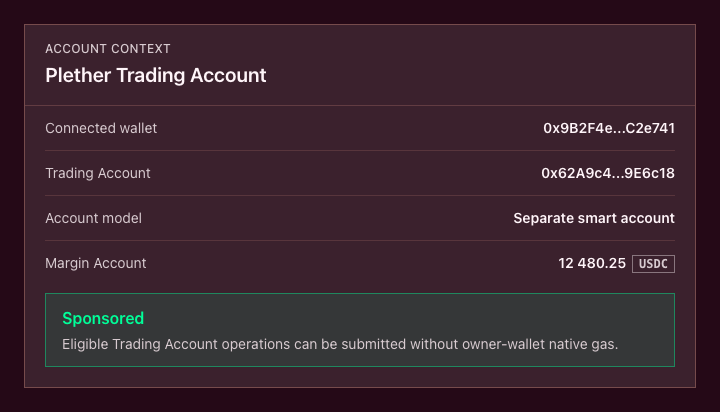
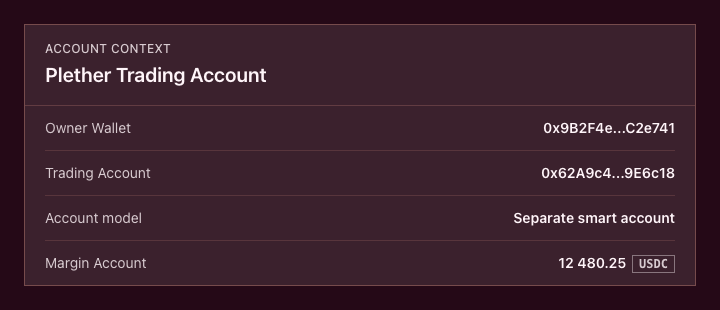
Refresh Arbitrum Sepolia perps deployment addresses and manifest

diff --git a/apps/frontend/src/components/SponsoredOperationActivity.tsx b/apps/frontend/src/components/SponsoredOperationActivity.tsx
@@ -350,7 +350,7 @@ export function SponsoredOperationHistoryButton() {
   const operations = useSponsoredOperationStore((state) => state.operations)
   const [openedActivity, setOpenedActivity] = useState<{
     identityKey: string
-    attentionCount: number
+    attentionOperationIds: string[]
   } | null>(null)
   const identityKey = identity.accountAddress && identity.chainId !== undefined
     ? `${identity.chainId.toString()}:${identity.accountAddress.toLowerCase()}`
@@ -367,18 +367,31 @@ export function SponsoredOperationHistoryButton() {
         )
         .sort((a, b) => b.updatedAt - a.updatedAt)
     : []
-  const needsAttentionOperations = accountOperations.filter(
+  const attentionOperations = accountOperations.filter(
     (operation) => isSponsoredOperationAttentionStatus(operation.status)
   )
-  const unreviewedAttentionOperations = needsAttentionOperations.filter(
+  const unreviewedAttentionOperations = attentionOperations.filter(
     isUnreviewedAttentionOperation
   )
   const inProgressOperations = accountOperations.filter(
     (operation) => isInProgressStatus(operation.status)
   )
+  const openedAttentionOperationIds = new Set(
+    openedActivity?.identityKey === identityKey
+      ? openedActivity.attentionOperationIds
+      : []
+  )
+  const needsAttentionOperations = attentionOperations.filter(
+    (operation) =>
+      openedAttentionOperationIds.has(operation.id) ||
+      isUnreviewedAttentionOperation(operation)
+  )
+  const needsAttentionOperationIds = new Set(
+    needsAttentionOperations.map((operation) => operation.id)
+  )
   const recentOperations = accountOperations.filter(
     (operation) =>
-      !isSponsoredOperationAttentionStatus(operation.status) &&
+      !needsAttentionOperationIds.has(operation.id) &&
       !isInProgressStatus(operation.status)
   )
   const [confirmationFeedback, setConfirmationFeedback] = useState<{
@@ -501,7 +514,7 @@ export function SponsoredOperationHistoryButton() {
   const unreviewedAttentionCount = unreviewedAttentionOperations.length
   const inProgressCount = inProgressOperations.length
   const attentionSummaryCount = openedActivity?.identityKey === identityKey
-    ? openedActivity.attentionCount
+    ? needsAttentionOperations.length
     : 0
   const buttonTone = isConfirmationFeedbackVisible
     ? 'border-positive text-positive hover:bg-positive/15'
@@ -575,7 +588,9 @@ export function SponsoredOperationHistoryButton() {
           )
           setOpenedActivity({
             identityKey,
-            attentionCount: unreviewedAttentionCount,
+            attentionOperationIds: unreviewedAttentionOperations.map(
+              (operation) => operation.id
+            ),
           })
         }}
       >

diff --git a/apps/frontend/src/contracts/perpsAddresses.ts b/apps/frontend/src/contracts/perpsAddresses.ts
@@ -22,20 +22,20 @@ export interface PerpsContractAddresses {
 }
 
 export const PERPS_ARBITRUM_SEPOLIA = {
-  pyth: '0x4374e5a8b9C22271E9EB878A2AA31DE97DF15DAF',
-  usdc: '0xf1e1B188b87525C51ECe4bae8627ae621D769651',
-  perpsPublicLens: '0xDdDCfb123569774427802fcA9D19CBF00c14e2Ad',
-  marginClearinghouse: '0x731bb0939CE531728459394A277B28Cbff8df049',
-  orderRouter: '0x4A0a6c028164A1254e10C3e39cc89Af45090069e',
-  orderRouterAdmin: '0xf11858573eE79EF64e38e47572785D67cE7641Ec',
-  cfdEngine: '0xA1Ebfb8aD9C90367eA30A29592419d447E3f8224',
-  cfdEnginePlanner: '0x7dDC8AdF27456A71e02e517E28a975832D49d195',
-  cfdEngineSettlementSidecar: '0x78C79E81fF5221DCdfB6B384A86990bffAFd4D6b',
-  cfdEngineAdmin: '0x03957FACB0d371f170737fa0252CDC1088bba78A',
-  housePool: '0x793dAbc20Ab0eCEb0AD8060b1fb307212C9EB6df',
-  seniorVault: '0x352F2C0Ad6e0Db6EbC3fBE7738857a804327f53b',
-  juniorVault: '0x783daF5eC664932764a59Ae387C3eAbD6cC61A74',
-  pletherOracle: '0x8c95f554D728215b9f8D15b5F3Da5F5CD7Ba08bA',
-  cfdEngineLens: '0xB7F0A32EfD67193782171Efc60D5D13A44bd5177',
-  cfdEngineAccountLens: '0xb46f7ECAE1E7D3BC8ebC7FB1cda20d2d9a83cC29',
+  pyth: '0x0B73614636C855Bf23F342F307FB981A3e47f42B',
+  usdc: '0xB15503d70B0eAa644dc6650d2A248762F7c5bCE3',
+  perpsPublicLens: '0x4E202C06e2C378d1a85577ac631e592AB66f23FB',
+  marginClearinghouse: '0x19c2f60f6312EAF9acDE4C2b04551a05cA9bE76e',
+  orderRouter: '0x04E3103752f623fBcDcD01f588590Af4c53E4c1E',
+  orderRouterAdmin: '0x3073d6D021eC20b95a8b7C780f5c30c07036ff6C',
+  cfdEngine: '0x6A25eA1015b5f032d8a2D95d57AEfcB99219bF0a',
+  cfdEnginePlanner: '0x7B4208840E0ea325dd71bDF50ffe6F8FE4018A21',
+  cfdEngineSettlementSidecar: '0x0b652c4D4610234e221403076C116292F935b424',
+  cfdEngineAdmin: '0xb256d4E88d649b2A149aA8B8caa3159260eFBc39',
+  housePool: '0xFA654f4c548130F09C3Fb962AbD4bE32c0357C18',
+  seniorVault: '0x4bAb5448C1BD9A48B978ABcb014F1a8F80F100A8',
+  juniorVault: '0x7258d6E91fbEFB8a16751575adbe9bBB3086D458',
+  pletherOracle: '0xADfEd3bf768D810309B97b4dF9F9E77Eaa3a401c',
+  cfdEngineLens: '0xa9aA4097874e9622eAABeE68f65Ff5e3757728C5',
+  cfdEngineAccountLens: '0xC4C886A6F1D7CB22C833AC1b29f29Da43AfbcCd1',
 } satisfies PerpsContractAddresses

diff --git a/apps/frontend/src/components/PerpsTradingAccountPanel.tsx b/apps/frontend/src/components/PerpsTradingAccountPanel.tsx
@@ -108,7 +108,7 @@ export function PerpsTradingAccountPanel({
 
       <dl className="px-5">
         <DetailRow
-          label="Connected wallet"
+          label="Owner Wallet"
           value={<span title={ownerWalletAddress}>{truncateAddress(ownerWalletAddress)}</span>}
         />
         <DetailRow
@@ -122,20 +122,22 @@ export function PerpsTradingAccountPanel({
         <DetailRow label="Margin Account" value={<TokenAmount amount={marginAccountUsdc} />} />
       </dl>
 
-      <div className="p-5 pt-2">
-        <div className={`border px-4 py-3 ${sponsorship.tone}`}>
-          <div className="flex items-center justify-between gap-3">
-            <span className="font-semibold">{sponsorship.label}</span>
-            {retryAt ? <span className="text-xs font-medium">Retry {retryAt}</span> : null}
+      {sponsorshipStatus !== 'available' ? (
+        <div className="p-5 pt-2">
+          <div className={`border px-4 py-3 ${sponsorship.tone}`}>
+            <div className="flex items-center justify-between gap-3">
+              <span className="font-semibold">{sponsorship.label}</span>
+              {retryAt ? <span className="text-xs font-medium">Retry {retryAt}</span> : null}
+            </div>
+            <p className="mt-1 text-sm leading-5 text-content-secondary">{sponsorship.message}</p>
+            {supportedAlternative ? (
+              <p className="mt-2 border-t border-current/20 pt-2 text-xs leading-5 text-content-primary">
+                Supported alternative: {supportedAlternative}
+              </p>
+            ) : null}
           </div>
-          <p className="mt-1 text-sm leading-5 text-content-secondary">{sponsorship.message}</p>
-          {supportedAlternative ? (
-            <p className="mt-2 border-t border-current/20 pt-2 text-xs leading-5 text-content-primary">
-              Supported alternative: {supportedAlternative}
-            </p>
-          ) : null}
         </div>
-      </div>
+      ) : null}
     </section>
   )
 }

diff --git a/apps/frontend/src/hooks/__tests__/usePerpsTrading.sponsorship.test.tsx b/apps/frontend/src/hooks/__tests__/usePerpsTrading.sponsorship.test.tsx
@@ -39,13 +39,13 @@ vi.mock('../../perps-aa', async (importOriginal) => {
     smartAccountVersion: 'permissionless-simple-v0.8' as const,
     smartAccountIndex: '0',
     smartAccountFactory: '0x4444444444444444444444444444444444444444',
-    usdc: '0xf1e1B188b87525C51ECe4bae8627ae621D769651',
+    usdc: '0xB15503d70B0eAa644dc6650d2A248762F7c5bCE3',
     usdcSupportsEip3009: false,
     usdcEip712Name: null,
     usdcEip712Version: null,
-    marginClearinghouse: '0x731bb0939CE531728459394A277B28Cbff8df049',
-    cfdEngine: '0xA1Ebfb8aD9C90367eA30A29592419d447E3f8224',
-    orderRouter: '0x4A0a6c028164A1254e10C3e39cc89Af45090069e',
+    marginClearinghouse: '0x19c2f60f6312EAF9acDE4C2b04551a05cA9bE76e',
+    cfdEngine: '0x6A25eA1015b5f032d8a2D95d57AEfcB99219bF0a',
+    orderRouter: '0x04E3103752f623fBcDcD01f588590Af4c53E4c1E',
     userOperationExplorerUrlTemplate:
       'https://example.com/user-operation/{userOperationHash}',
     transactionExplorerUrlTemplate:

diff --git a/apps/frontend/src/hooks/__tests__/usePerpsTrading.test.tsx b/apps/frontend/src/hooks/__tests__/usePerpsTrading.test.tsx
@@ -56,13 +56,13 @@ vi.mock('../../perps-aa', async (importOriginal) => {
     smartAccountVersion: 'permissionless-simple-v0.8' as const,
     smartAccountIndex: '0',
     smartAccountFactory: '0x4444444444444444444444444444444444444444',
-    usdc: '0xf1e1B188b87525C51ECe4bae8627ae621D769651',
+    usdc: '0xB15503d70B0eAa644dc6650d2A248762F7c5bCE3',
     usdcSupportsEip3009: false,
     usdcEip712Name: null,
     usdcEip712Version: null,
-    marginClearinghouse: '0x731bb0939CE531728459394A277B28Cbff8df049',
-    cfdEngine: '0xA1Ebfb8aD9C90367eA30A29592419d447E3f8224',
-    orderRouter: '0x4A0a6c028164A1254e10C3e39cc89Af45090069e',
+    marginClearinghouse: '0x19c2f60f6312EAF9acDE4C2b04551a05cA9bE76e',
+    cfdEngine: '0x6A25eA1015b5f032d8a2D95d57AEfcB99219bF0a',
+    orderRouter: '0x04E3103752f623fBcDcD01f588590Af4c53E4c1E',
     userOperationExplorerUrlTemplate:
       'https://example.com/user-operation/{userOperationHash}',
     transactionExplorerUrlTemplate:

diff --git a/apps/frontend/src/stories/PerpsTradingAccountPanel.stories.tsx b/apps/frontend/src/stories/PerpsTradingAccountPanel.stories.tsx
@@ -135,7 +135,7 @@ export const FirstDepositAuthorization: Story = {
           <OperationStateCard
             title="USDC transfer authorization"
             stage="Wallet authorization"
-            message="Authorize exactly 10 000 MockUSDC for transfer from the owner wallet to the Trading Account."
+            message="Authorize exactly 10 000 USDC for transfer from the Owner Wallet to the Trading Account."
             tone="success"
             identifierLabel="Destination"
             identifier={ACCOUNT}
@@ -146,7 +146,7 @@ export const FirstDepositAuthorization: Story = {
             message="Receive the authorized USDC, approve the clearinghouse and deposit the complete amount into the Margin Account as one atomic batch."
             tone="pending"
             identifierLabel="Amount"
-            identifier="10 000 MockUSDC"
+            identifier="10 000 USDC"
           />
         </div>
       </div>

diff --git a/apps/frontend/src/perps-aa/__tests__/managedPimlicoRuntime.test.ts b/apps/frontend/src/perps-aa/__tests__/managedPimlicoRuntime.test.ts
@@ -48,16 +48,16 @@ const manifest = {
   smartAccountVersion: 'permissionless-simple-v0.8' as const,
   smartAccountIndex: '0',
   smartAccountFactory: FACTORY,
-  usdc: '0xf1e1B188b87525C51ECe4bae8627ae621D769651' as Address,
+  usdc: '0xB15503d70B0eAa644dc6650d2A248762F7c5bCE3' as Address,
   usdcSupportsEip3009: false,
   usdcEip712Name: null,
   usdcEip712Version: null,
   marginClearinghouse:
-    '0x731bb0939CE531728459394A277B28Cbff8df049' as Address,
+    '0x19c2f60f6312EAF9acDE4C2b04551a05cA9bE76e' as Address,
   cfdEngine:
-    '0xA1Ebfb8aD9C90367eA30A29592419d447E3f8224' as Address,
+    '0x6A25eA1015b5f032d8a2D95d57AEfcB99219bF0a' as Address,
   orderRouter:
-    '0x4A0a6c028164A1254e10C3e39cc89Af45090069e' as Address,
+    '0x04E3103752f623fBcDcD01f588590Af4c53E4c1E' as Address,
   userOperationExplorerUrlTemplate:
     'https://example.com/user-operation/{userOperationHash}',
   transactionExplorerUrlTemplate:

diff --git a/apps/frontend/src/stories/SponsoredOperationHistoryButton.stories.tsx b/apps/frontend/src/stories/SponsoredOperationHistoryButton.stories.tsx
@@ -28,13 +28,13 @@ const MANIFEST: PerpsAaDeploymentManifest = {
   smartAccountVersion: 'permissionless-simple-v0.8',
   smartAccountIndex: '0',
   smartAccountFactory: '0x13E9ed32155810FDbd067D4522C492D6f68E5944',
-  usdc: '0xf1e1B188b87525C51ECe4bae8627ae621D769651',
+  usdc: '0xB15503d70B0eAa644dc6650d2A248762F7c5bCE3',
   usdcSupportsEip3009: false,
   usdcEip712Name: null,
   usdcEip712Version: null,
-  marginClearinghouse: '0x731bb0939CE531728459394A277B28Cbff8df049',
-  cfdEngine: '0xA1Ebfb8aD9C90367eA30A29592419d447E3f8224',
-  orderRouter: '0x4A0a6c028164A1254e10C3e39cc89Af45090069e',
+  marginClearinghouse: '0x19c2f60f6312EAF9acDE4C2b04551a05cA9bE76e',
+  cfdEngine: '0x6A25eA1015b5f032d8a2D95d57AEfcB99219bF0a',
+  orderRouter: '0x04E3103752f623fBcDcD01f588590Af4c53E4c1E',
   userOperationExplorerUrlTemplate:
     'https://arbitrum-sepolia.blockscout.com/op/{userOperationHash}',
   transactionExplorerUrlTemplate:

diff --git a/apps/frontend/src/components/__tests__/SponsoredOperationHistoryButton.test.tsx b/apps/frontend/src/components/__tests__/SponsoredOperationHistoryButton.test.tsx
@@ -329,7 +329,9 @@ describe('SponsoredOperationHistoryButton', () => {
     }))
     expect(screen.queryByText('1 action needs attention'))
       .not.toBeInTheDocument()
-    expect(screen.getByText('Needs attention')).toBeInTheDocument()
+    expect(screen.queryByText('Needs attention')).not.toBeInTheDocument()
+    expect(screen.getByText('Recent activity')).toBeInTheDocument()
+    expect(screen.getByText('Withdraw margin')).toBeInTheDocument()
 
     act(() => {
       useSponsoredOperationStore.getState().recordTransactionHash(

diff --git a/apps/gitbook/STORYBOOK_SCREENSHOT_MAP.md b/apps/gitbook/STORYBOOK_SCREENSHOT_MAP.md
@@ -128,7 +128,8 @@ The links below assume Storybook is available at `http://localhost:6006`.
 | `trading-on-plether-perps/gas-sponsored-trading-and-your-plether-trading-account.md:132` | Trading Account setup | [Account Identity](http://localhost:6006/?path=/story/documentation-trading-account-and-sponsorship--account-identity) | New |
 | `trading-on-plether-perps/gas-sponsored-trading-and-your-plether-trading-account.md:165` | First deposit authorization and batch | [First Deposit Authorization](http://localhost:6006/?path=/story/documentation-trading-account-and-sponsorship--first-deposit-authorization) | New |
 | `trading-on-plether-perps/gas-sponsored-trading-and-your-plether-trading-account.md:190` | Sponsored withdrawal destination | [Withdrawal Confirmation](http://localhost:6006/?path=/story/documentation-trading-account-and-sponsorship--withdrawal-confirmation) | New |
-| `trading-on-plether-perps/gas-sponsored-trading-and-your-plether-trading-account.md:281` | Sponsor unavailable | [Sponsor Unavailable](http://localhost:6006/?path=/story/documentation-trading-account-and-sponsorship--sponsor-unavailable) | New |
+| `trading-on-plether-perps/gas-sponsored-trading-and-your-plether-trading-account.md:265` | Trading Account activity history | [Modal Open](http://localhost:6006/?path=/story/perps-trading-account-activity--modal-open) | Current activity modal |
+| `trading-on-plether-perps/gas-sponsored-trading-and-your-plether-trading-account.md:285` | Sponsor unavailable | [Sponsor Unavailable](http://localhost:6006/?path=/story/documentation-trading-account-and-sponsorship--sponsor-unavailable) | New |
 
 ## Open or increase a position
 

diff --git a/apps/backend/README.md b/apps/backend/README.md
@@ -149,7 +149,7 @@ cd apps/backend
 RPC_URL="$ARB_SEPOLIA_RPC_URL" \
 CHAIN_ID=421614 \
 DATABASE_URL=postgresql://postgres@localhost:55432/plether \
-PERPS_INDEXER_START_BLOCK=273137426 \
+PERPS_INDEXER_START_BLOCK=288439939 \
 cabal run plether-perps-indexer -- --loop
 ```
 
@@ -266,7 +266,7 @@ Local URLs:
 | `PERPS_CFD_ENGINE` | No | Arbitrum Sepolia deployment | CFD engine allowed by the managed sponsorship policy |
 | `PERPS_MARGIN_CLEARINGHOUSE` | No | Arbitrum Sepolia deployment | Margin clearinghouse allowed by the managed sponsorship policy |
 | `PERPS_PLETHER_ORACLE` | No | Arbitrum Sepolia deployment | Plether oracle address for update fees and reveal window |
-| `PERPS_INDEXER_START_BLOCK` | No | `273137426` | Arbitrum Sepolia perps release first log block to start keeper/history indexing from |
+| `PERPS_INDEXER_START_BLOCK` | No | `288439939` | Arbitrum Sepolia perps release first block to start keeper/history indexing from |
 | `AA_PROXY_ORIGIN_TOKEN` | With managed sponsorship | - | Shared secret required from the trusted Pages/Vite proxy |
 | `PIMLICO_API_KEY` | With managed sponsorship | - | Server-only Pimlico API key |
 | `PIMLICO_SPONSORSHIP_POLICY_ID` | With managed sponsorship | - | Server-injected Pimlico policy ID; browser context is replaced |

diff --git a/apps/gitbook/trading-on-plether-perps/gas-sponsored-trading-and-your-plether-trading-account.md b/apps/gitbook/trading-on-plether-perps/gas-sponsored-trading-and-your-plether-trading-account.md
@@ -260,6 +260,10 @@ Possible statuses include:
 | **Order Pending**           | The order commitment succeeded and is waiting for execution |
 | **Failed**                  | The operation or underlying contract call did not complete  |
 
+The round activity button beside your wallet shows when an action is pending or needs attention. Open it to review operation and transaction details. A failed action is highlighted the first time you review it; after that, it remains available chronologically in **Recent activity**.
+
+![Trading Account activity history](../.gitbook/assets/screenshots/storybook-perps-trading-account-activity--modal-open.png)
+
 ### Retrying a failed sponsored action
 
 If sponsorship is rejected before submission, no onchain action has occurred. The interface will show the reason and, where possible, when to retry.
